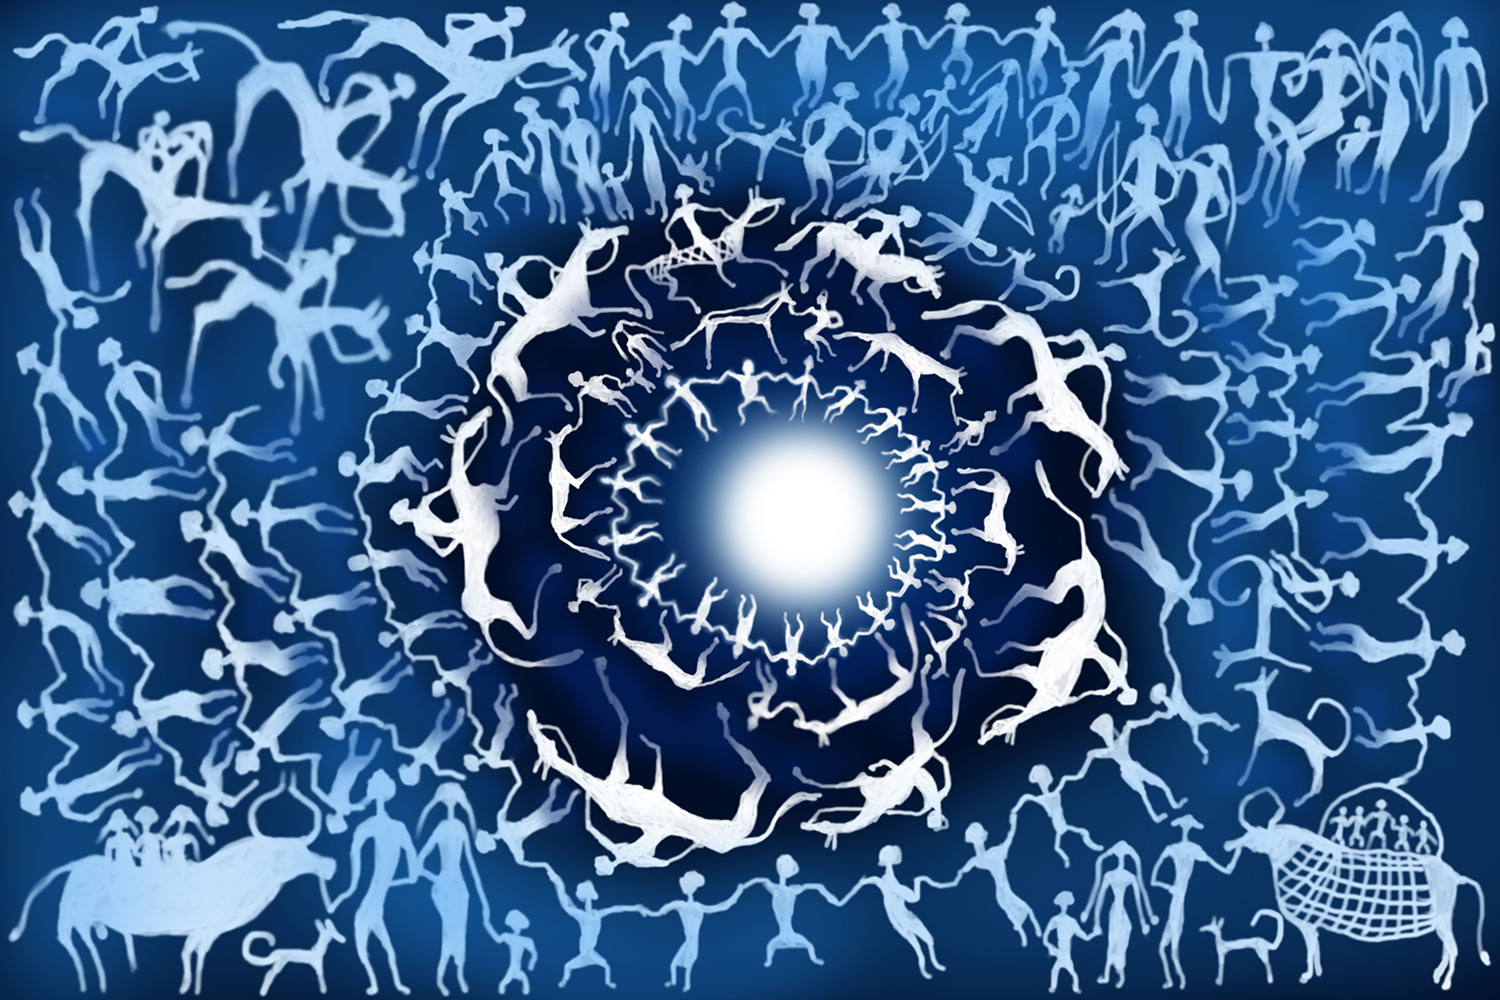
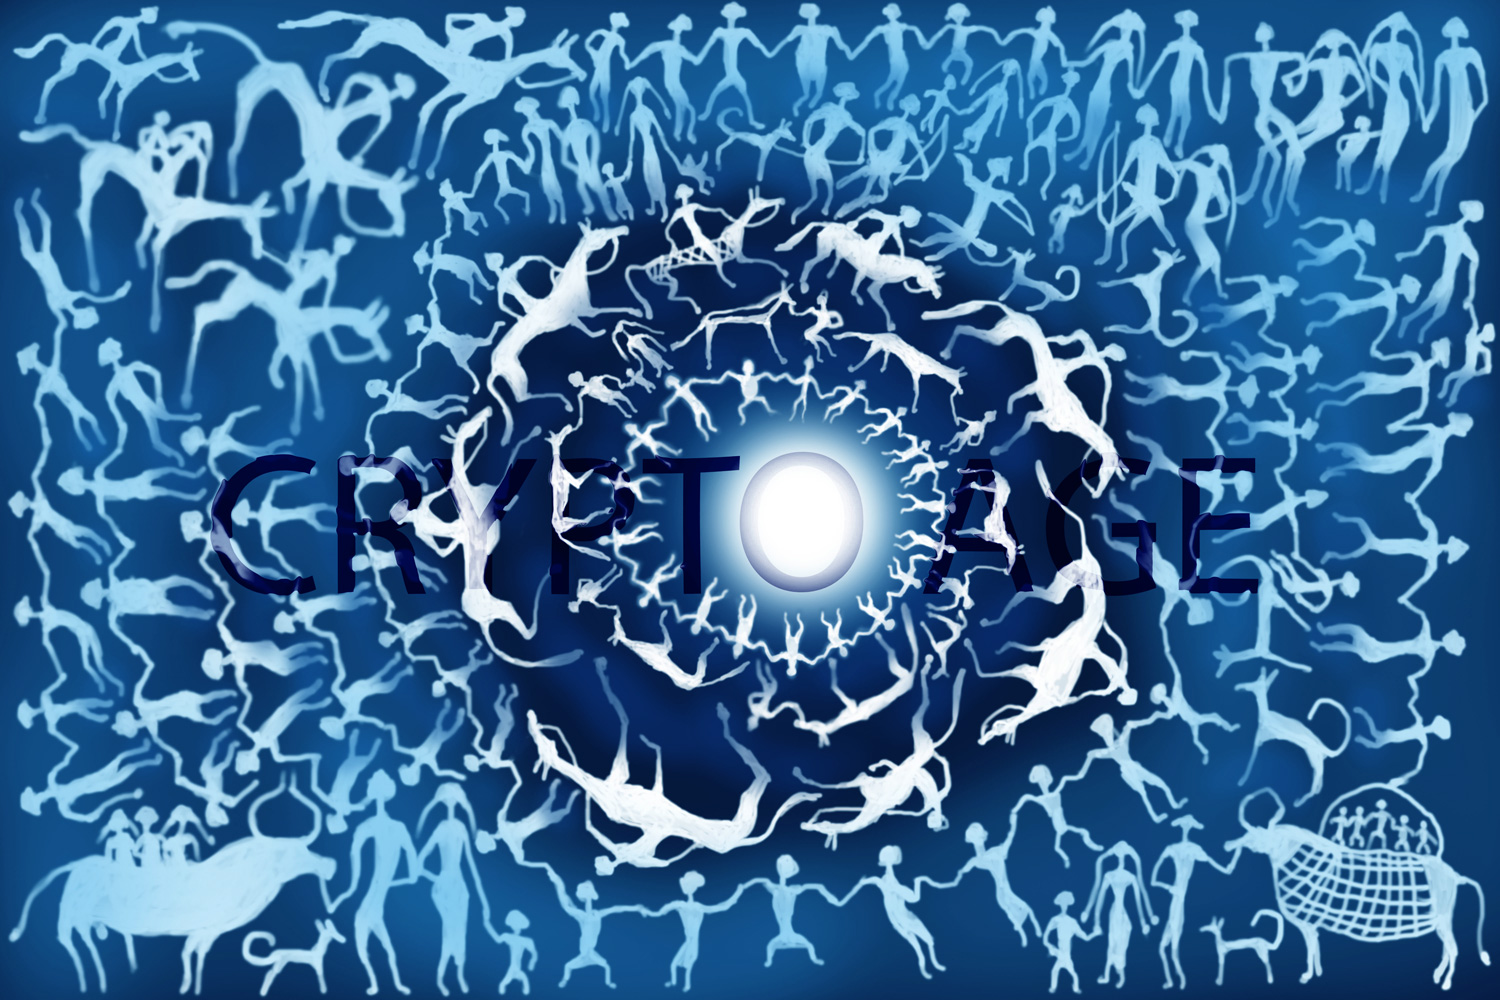
changed header-bg

diff --git a/index.html b/index.html
@@ -38,9 +38,9 @@
         <!-- Masthead-->
         <header class="masthead">
             <div class="container">
-                <div class="masthead-subheading">Welcome To MRG313!</div>
-                <div class="masthead-heading text-uppercase">Welcome to the crypto age.</div>
-                <!-- <a class="btn btn-primary btn-xl text-uppercase" href="#portfolio">lets see our nft's</a> -->
+                <div class="masthead-subheading" style="color:rgb(7, 172, 172);">MRG313 Studio presents</div>
+                <div class="masthead-heading text-uppercase" style="color: rgb(7, 172, 172);">Metaverse 1st cryptocave</div> <br> <br> <br><br><br><br><br><br><br>
+                <a class="btn btn-info btn-xl text-uppercase" href="#portfolio">lets see our nft's</a>
             </div>
         </header>
         <!-- Services-->
